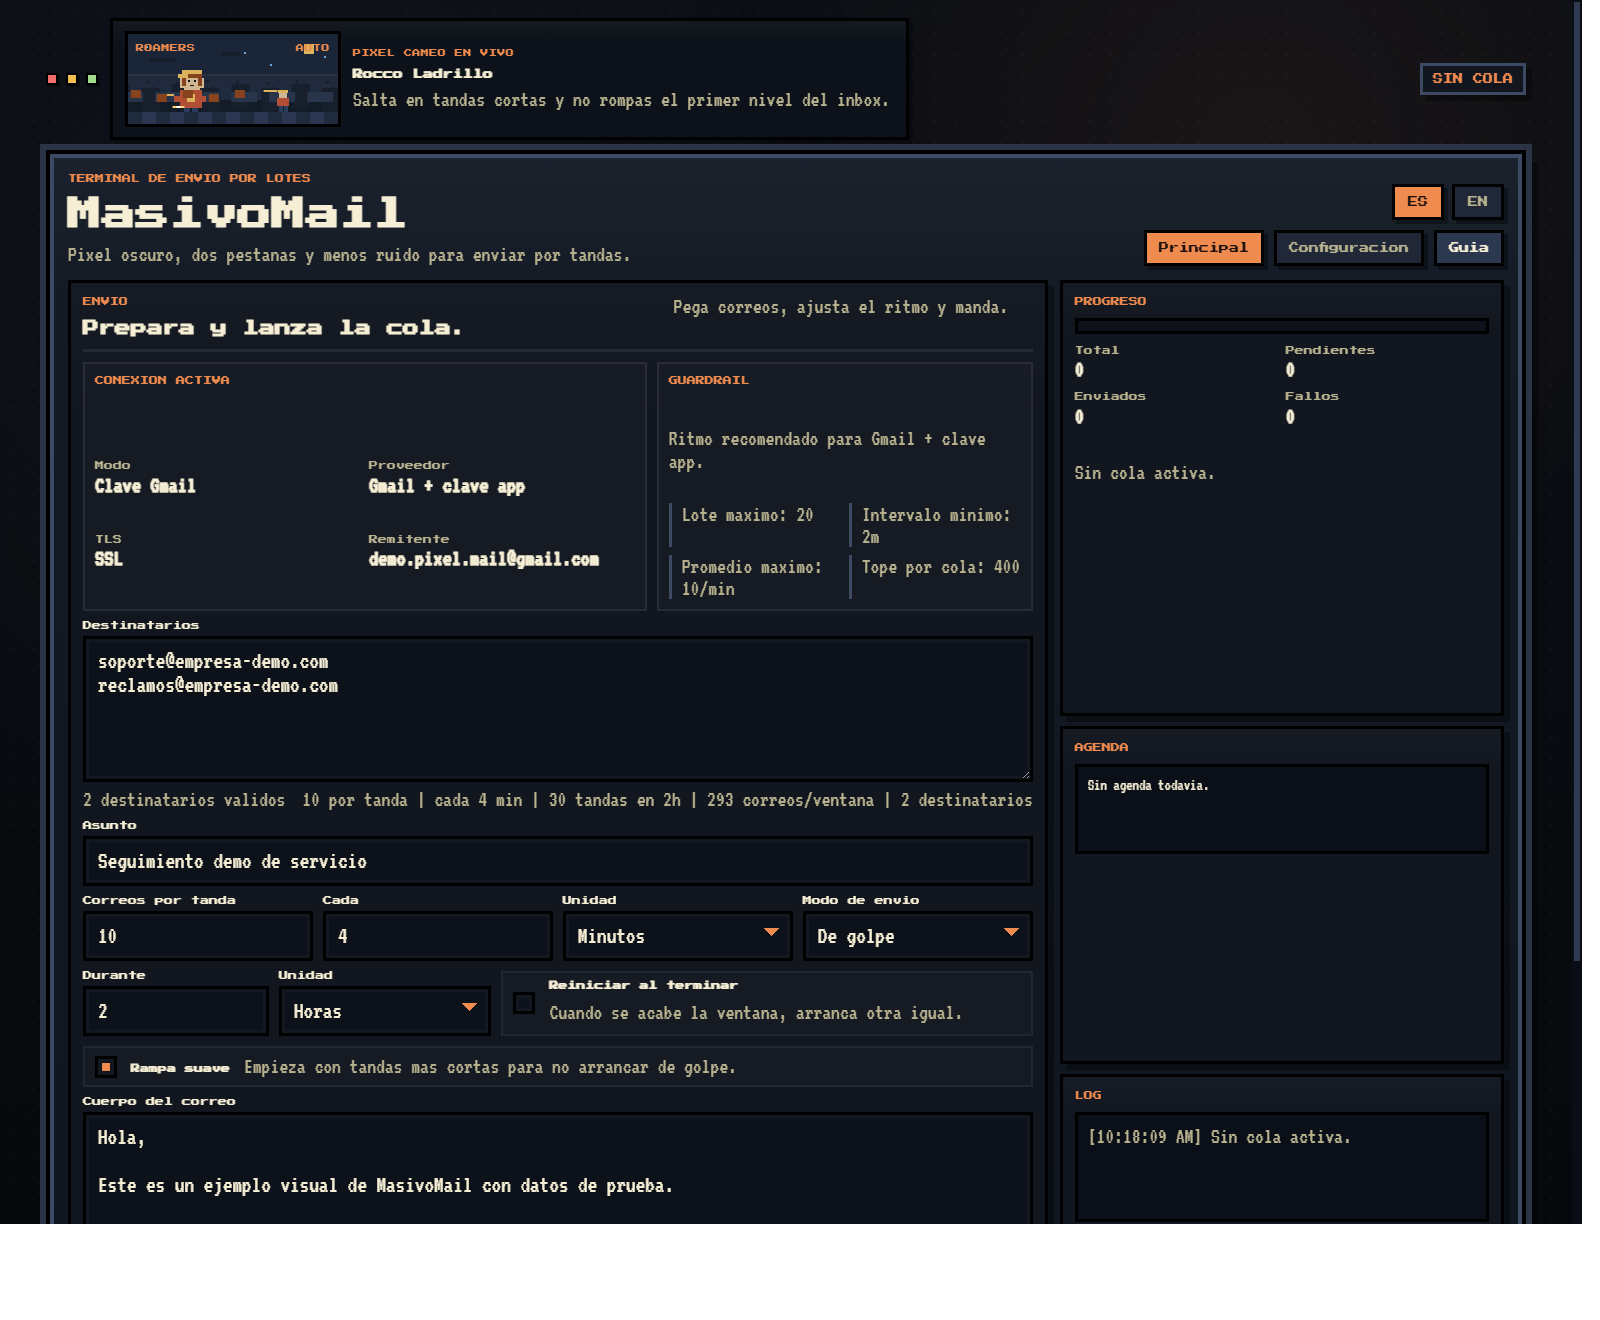
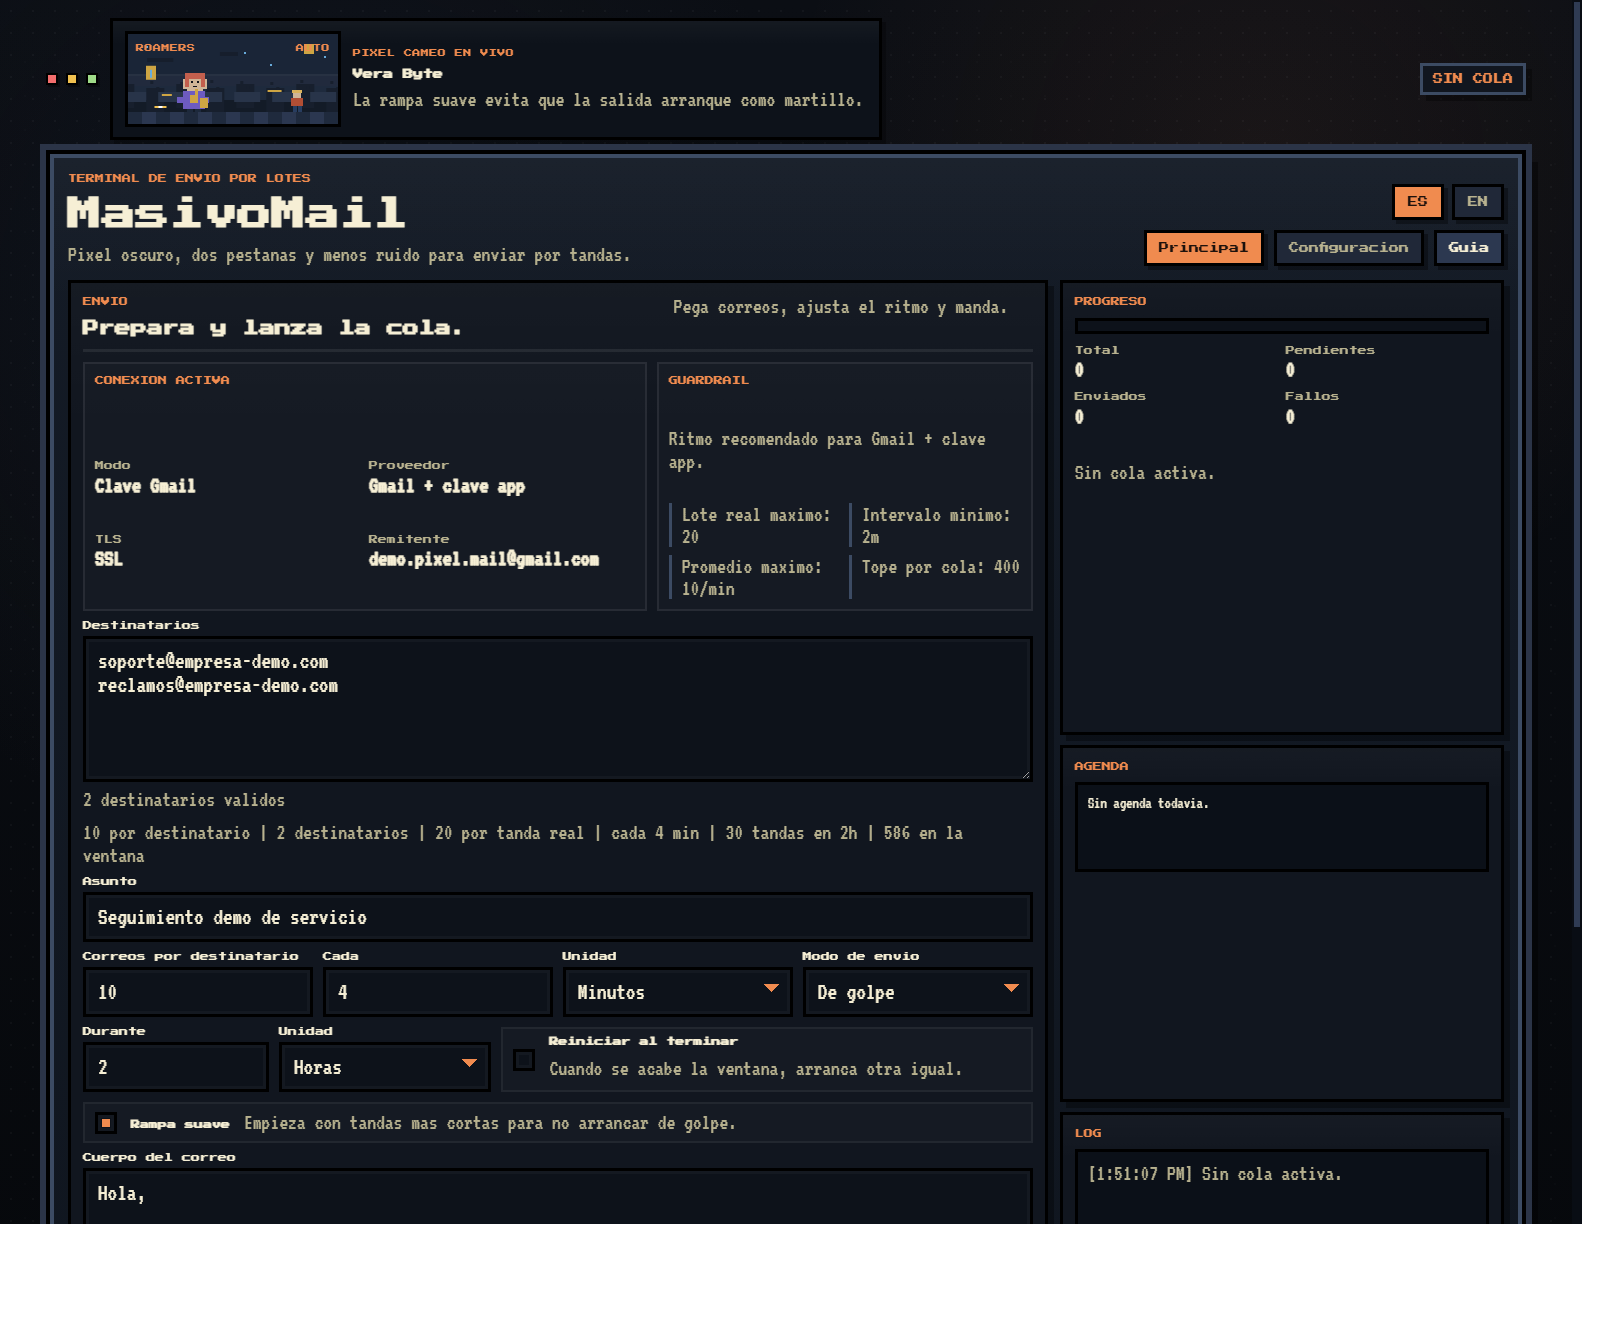
Make batch size apply per recipient

diff --git a/public/app.js b/public/app.js
@@ -44,7 +44,7 @@ const I18N = {
     "send.paceDefault": "Sin cadencia definida",
     "send.subject": "Asunto",
     "send.subjectPlaceholder": "Aqui va el asunto que vera la otra persona",
-    "send.batchSize": "Correos por tanda",
+    "send.batchSize": "Correos por destinatario",
     "send.each": "Cada",
     "send.unit": "Unidad",
     "send.unitMinutes": "Minutos",
@@ -146,7 +146,7 @@ const I18N = {
     "config.manual": "Manual",
     "config.noUser": "sin usuario",
     "guardrail.copy": "Ritmo recomendado para {label}.",
-    "guardrail.batchMax": "Lote maximo: {value}",
+    "guardrail.batchMax": "Lote real maximo: {value}",
     "guardrail.minInterval": "Intervalo minimo: {value}",
     "guardrail.maxAverage": "Promedio maximo: {value}/min",
     "guardrail.dailyCap": "Tope por cola: {value}",
@@ -156,8 +156,8 @@ const I18N = {
     "recipients.validOnly": "{valid} destinatarios validos",
     "recipients.withInvalid": "{valid} validos / {invalid} invalidos",
     "attachments.none": "Sin adjuntos",
-    "pace.preview": "{batch} por tanda | cada {interval} | {batches} tandas en {window}",
-    "pace.windowPlan": "{messages} correos/ventana | {recipients} destinatarios",
+    "pace.preview": "{batch} por destinatario | {recipients} destinatarios | {batchTotal} por tanda real | cada {interval} | {batches} tandas en {window}",
+    "pace.windowPlan": "{messages} en la ventana",
     "timing.currentBatch": "Tanda {number} en curso con {size} correos.",
     "timing.nextRun": "Siguiente tanda: {time}.",
     "timing.windowEnds": "Ventana {cycle} hasta {time}.",
@@ -222,7 +222,7 @@ const I18N = {
     "send.paceDefault": "No cadence defined",
     "send.subject": "Subject",
     "send.subjectPlaceholder": "Put the subject the other person will see here",
-    "send.batchSize": "Emails per batch",
+    "send.batchSize": "Emails per recipient",
     "send.each": "Every",
     "send.unit": "Unit",
     "send.unitMinutes": "Minutes",
@@ -324,7 +324,7 @@ const I18N = {
     "config.manual": "Manual",
     "config.noUser": "no user",
     "guardrail.copy": "Recommended pace for {label}.",
-    "guardrail.batchMax": "Max batch: {value}",
+    "guardrail.batchMax": "Max real batch: {value}",
     "guardrail.minInterval": "Min interval: {value}",
     "guardrail.maxAverage": "Max average: {value}/min",
     "guardrail.dailyCap": "Queue cap: {value}",
@@ -334,8 +334,8 @@ const I18N = {
     "recipients.validOnly": "{valid} valid recipients",
     "recipients.withInvalid": "{valid} valid / {invalid} invalid",
     "attachments.none": "No attachments",
-    "pace.preview": "{batch} per batch | every {interval} | {batches} batches in {window}",
-    "pace.windowPlan": "{messages} emails/window | {recipients} recipients",
+    "pace.preview": "{batch} per recipient | {recipients} recipients | {batchTotal} in each real batch | every {interval} | {batches} batches in {window}",
+    "pace.windowPlan": "{messages} in the window",
     "timing.currentBatch": "Batch {number} is running with {size} emails.",
     "timing.nextRun": "Next batch: {time}.",
     "timing.windowEnds": "Window {cycle} until {time}.",
@@ -1079,21 +1079,22 @@ function renderPacePreview() {
   const batches = Math.max(1, Math.floor(Math.max(windowSeconds - 1, 0) / Math.max(seconds, 1)) + 1);
   let messages = 0;
   for (let index = 1; index <= batches; index += 1) {
-    if (el.rampUp.checked && index === 1) {
-      messages += Math.max(1, Math.ceil(batchSize * 0.5));
-    } else if (el.rampUp.checked && index === 2) {
-      messages += Math.max(1, Math.ceil(batchSize * 0.75));
-    } else {
-      messages += batchSize;
-    }
+    const perRecipientCount = (el.rampUp.checked && index === 1)
+      ? Math.max(1, Math.ceil(batchSize * 0.5))
+      : (el.rampUp.checked && index === 2)
+        ? Math.max(1, Math.ceil(batchSize * 0.75))
+        : batchSize;
+
+    messages += perRecipientCount * total;
   }
 
+  const batchTotal = batchSize * total;
   const intervalLabel = intervalUnit === "seconds"
     ? `${intervalValue} s`
     : `${intervalValue} min`;
   const windowLabel = windowUnit === "minutes" ? `${windowValue}m` : `${windowValue}h`;
   const repeatLabel = repeatWindow ? (state.lang === "en" ? " | repeats" : " | reinicia") : "";
-  el.pacePreview.textContent = `${t("pace.preview", { batch: batchSize, interval: intervalLabel, batches, window: windowLabel })} | ${t("pace.windowPlan", { messages, recipients: total })}${repeatLabel}`;
+  el.pacePreview.textContent = `${t("pace.preview", { batch: batchSize, recipients: total, batchTotal, interval: intervalLabel, batches, window: windowLabel })} | ${t("pace.windowPlan", { messages })}${repeatLabel}`;
 }
 
 async function saveConfig(event) {

diff --git a/server.js b/server.js
@@ -390,7 +390,7 @@ function buildCampaignPayload(input, config) {
   if (!Number.isInteger(batchSize) || batchSize <= 0) throw new Error("El tamano del lote debe ser mayor que cero.");
   if (!Number.isInteger(intervalValue) || intervalValue <= 0) throw new Error("El intervalo debe ser mayor que cero.");
   if (!Number.isInteger(windowValue) || windowValue <= 0) throw new Error("La duracion de la ventana debe ser mayor que cero.");
-  validateGuardrails(recipients.valid.length, batchSize, intervalSeconds, windowSeconds, Number((batchSize * 60) / intervalSeconds), profile);
+  validateGuardrails(recipients.valid.length, batchSize, intervalSeconds, windowSeconds, Number(((batchSize * recipients.valid.length * 60) / intervalSeconds).toFixed(2)), profile);
   return {
     id: crypto.randomUUID(),
     status: "queued",
@@ -424,15 +424,17 @@ function buildCampaignPayload(input, config) {
   };
 }
 
-function validateGuardrails(total, batchSize, intervalSeconds, windowSeconds, averagePerMinute, profile) {
+function validateGuardrails(totalRecipients, batchSize, intervalSeconds, windowSeconds, averagePerMinute, profile) {
   const rules = profile.guardrails;
+  const batchTotal = messagesPerBatch(batchSize, totalRecipients);
   const plannedMessages = plannedMessagesForCycle({
+    recipientCount: totalRecipients,
     batchSize,
     intervalSeconds,
     windowSeconds,
     rampUp: false
   });
-  if (batchSize > rules.batchMax) throw new Error(`Con ${profile.label}, la app limita el lote a ${rules.batchMax} correos.`);
+  if (batchTotal > rules.batchMax) throw new Error(`Con ${profile.label}, ${batchSize} por destinatario y ${totalRecipients} destinatarios se vuelven ${batchTotal} correos por tanda, y el maximo es ${rules.batchMax}.`);
   if (intervalSeconds < rules.minIntervalSeconds) throw new Error(`Con ${profile.label}, el intervalo minimo es ${humanizeSeconds(rules.minIntervalSeconds)}.`);
   if (averagePerMinute > rules.maxAveragePerMinute) throw new Error(`Con ${profile.label}, la app limita el promedio a ${rules.maxAveragePerMinute} correos por minuto.`);
   if (plannedMessages > rules.dailyCap) throw new Error(`Con ${profile.label}, esa ventana supera el tope de ${rules.dailyCap} correos.`);
@@ -493,9 +495,10 @@ function publicCampaign() {
 }
 
 function summary() {
+  const recipientCount = campaign.recipients.length;
   const batchSize = campaign.options ? campaign.options.batchSize : 0;
   const plannedBatches = campaign.options ? plannedBatchesPerCycle(campaign.options) : 0;
-  const plannedMessages = campaign.options ? plannedMessagesForCycle(campaign.options) : 0;
+  const plannedMessages = campaign.options ? plannedMessagesForCycle({ ...campaign.options, recipientCount }) : 0;
   const cycleStartMs = campaign.cycleStartedAt ? Date.parse(campaign.cycleStartedAt) : 0;
   const cycleEndMs = campaign.cycleEndsAt ? Date.parse(campaign.cycleEndsAt) : 0;
   const windowProgressPercent = cycleStartMs && cycleEndMs
@@ -510,7 +513,7 @@ function summary() {
     failed,
     batchesDone: campaign.cycleBatchCount || 0,
     batchesTotal: plannedBatches,
-    averagePerMinute: campaign.options ? Number(((batchSize * 60) / campaign.options.intervalSeconds).toFixed(2)) : 0,
+    averagePerMinute: campaign.options ? Number((((batchSize * recipientCount) * 60) / campaign.options.intervalSeconds).toFixed(2)) : 0,
     cycleNumber: campaign.cycleNumber || 0,
     windowProgressPercent
   };
@@ -681,9 +684,10 @@ function buildBatchRecipients(size) {
   }
 
   const batch = [];
-  for (let index = 0; index < size; index += 1) {
-    batch.push(campaign.recipients[campaign.recipientCursor]);
-    campaign.recipientCursor = (campaign.recipientCursor + 1) % campaign.recipients.length;
+  for (const recipient of campaign.recipients) {
+    for (let index = 0; index < size; index += 1) {
+      batch.push(recipient);
+    }
   }
   return batch;
 }
@@ -746,9 +750,13 @@ function plannedMessagesForCycle(options) {
   let total = 0;
   const batches = plannedBatchesPerCycle(options);
   for (let index = 1; index <= batches; index += 1) {
-    total += batchSizeForCycleIndex(options, index);
+    total += messagesPerBatch(batchSizeForCycleIndex(options, index), options.recipientCount || 0);
   }
   return total;
+}
+
+function messagesPerBatch(perRecipientCount, recipientCount) {
+  return Math.max(0, perRecipientCount) * Math.max(0, recipientCount);
 }
 
 function splitRecipients(input) {

diff --git a/README.md b/README.md
@@ -27,7 +27,8 @@ La app corre localmente, se conecta a tu propia salida y te deja controlar tanda
 
 - Corre localmente en Docker.
 - Soporta `Gmail key`, `SMTP guiado` y `SMTP manual`.
-- Permite definir `correos por tanda`, `cada cuanto`, `modo de envio`, `duracion de ventana` y `reinicio automatico`.
+- Permite definir `correos por destinatario`, `cada cuanto`, `modo de envio`, `duracion de ventana` y `reinicio automatico`.
+- Si pones `10` y hay `2` destinatarios, la tanda real sera de `20` correos: `10` para cada uno.
 - Acepta adjuntos PNG, JPG y PDF.
 - Muestra `Progreso`, `Agenda` y `Log` en vivo.
 - No guarda formularios ni credenciales al recargar la pagina.
@@ -45,7 +46,21 @@ Todas las capturas del repo usan datos de prueba.
 
 ![Pantalla de configuracion](docs/images/config.png)
 
-## Arranque en una linea
+## Clonar y levantar en una linea
+
+### Windows PowerShell
+
+```powershell
+git clone https://github.com/idalbertopeguero-boop/MasivoMail.git; cd MasivoMail; docker compose up -d --build
+```
+
+### Linux o macOS
+
+```bash
+git clone https://github.com/idalbertopeguero-boop/MasivoMail.git && cd MasivoMail && docker compose up -d --build
+```
+
+## Si ya estas dentro del repo
 
 ```bash
 docker compose up -d --build
@@ -64,7 +79,7 @@ docker compose down
 1. En `Configuracion`, eliges el tipo de salida y pruebas la conexion.
 2. En `Principal`, pegas destinatarios, asunto, cuerpo y adjuntos.
 3. Ajustas el ritmo:
-   - correos por tanda
+   - correos por destinatario
    - intervalo en segundos, minutos u horas
    - envio `De golpe` o `Encolado`
    - cuanto dura la ventana
